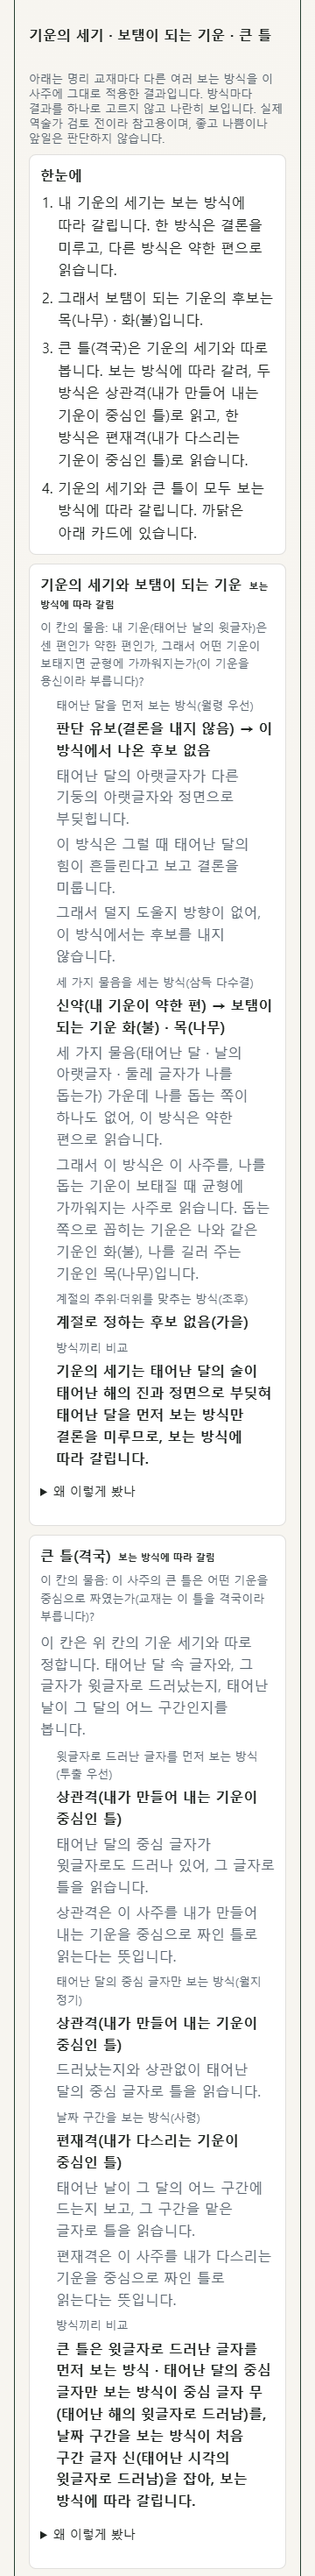
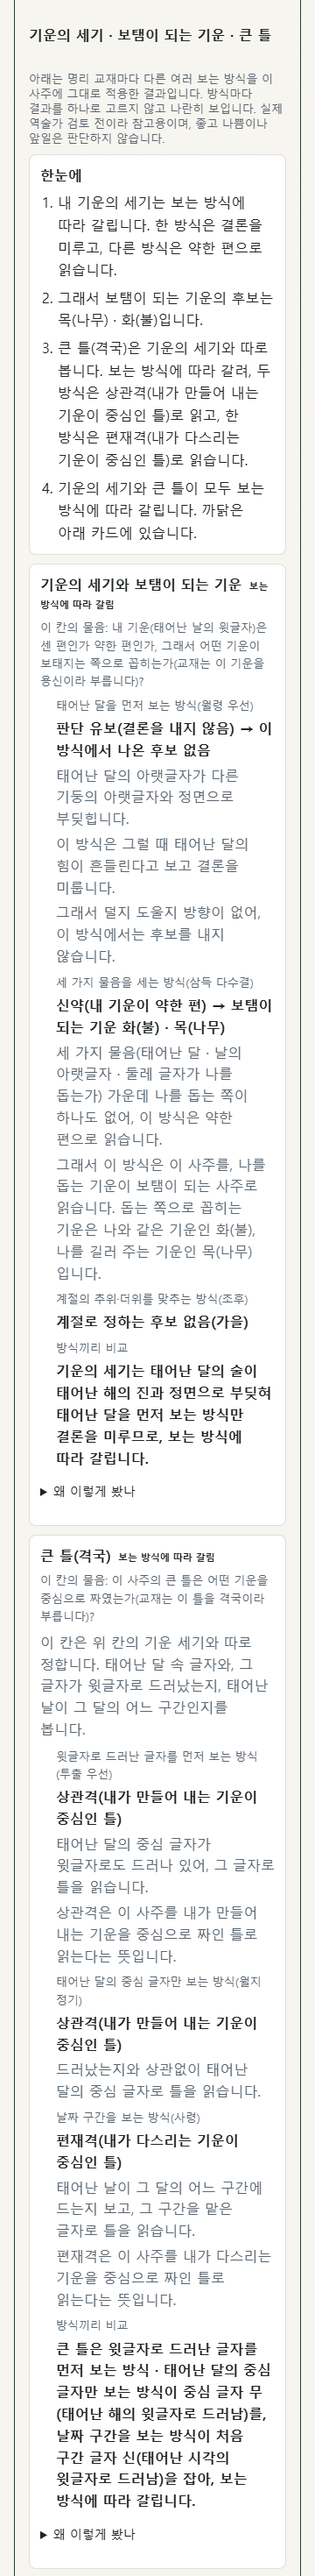
fix(paid): critic 2차 — 조사 · 월령 우선 기타 문장 · 투출 우선 비겁월 문장 · «균형» 삭제 · 득세 정의 (HO-2026-1120 plain-reading)
- josa: «병(편인)»처럼 괄호 풀이가 붙으면 괄호 앞 글자 받침으로 고름
- month-first.otherwise를 득지/득세 값으로 세 갈래, exposed-first.bigyeop-month 전용 문장
- 골든 0건 갈래를 실입력 2건으로 조건 단언, 조사 대조 테스트
- REPORT §3 보정본 문안 3사례 · 글자 수, 360px 재캡처

Changed region(s): [[0.1833, 0.4335, 0.825, 0.4954]]

diff --git a/apps/web/src/paid-reading.ts b/apps/web/src/paid-reading.ts
@@ -84,8 +84,8 @@ export const VERDICT_VALUE: Record<StrengthVerdict, string> = {
 };
 /** 값별 뜻 — 판정이 억부(세기를 맞추는 쪽) 후보로 이어지는 방향 + 그래서 이 사주를 어떻게 읽는가(LC 보정 3). */
 const VERDICT_DIRECTION: Record<StrengthVerdict, (list: string) => string> = {
-  strong: (list) => `그래서 이 방식은 이 사주를, 센 기운을 덜어 낼 때 균형에 가까워지는 사주로 읽습니다. 덜어 내는 쪽으로 꼽히는 기운은 ${list}입니다.`,
-  weak: (list) => `그래서 이 방식은 이 사주를, 나를 돕는 기운이 보태질 때 균형에 가까워지는 사주로 읽습니다. 돕는 쪽으로 꼽히는 기운은 ${list}입니다.`,
+  strong: (list) => `그래서 이 방식은 이 사주를, 센 기운을 덜어 내는 기운이 보탬이 되는 사주로 읽습니다. 덜어 내는 쪽으로 꼽히는 기운은 ${list}입니다.`,
+  weak: (list) => `그래서 이 방식은 이 사주를, 나를 돕는 기운이 보탬이 되는 사주로 읽습니다. 돕는 쪽으로 꼽히는 기운은 ${list}입니다.`,
   indeterminate: () => "그래서 덜지 도울지 방향이 없어, 이 방식에서는 후보를 내지 않습니다."
 };
 /** 한눈에 ① — 판정을 문장 꼴로(이어 쓰는 꼴 · 끝맺는 꼴). LC 보정 4. */
@@ -155,7 +155,9 @@ export const gyeokValue = (gyeok: GyeokId): string => `${GYEOK_KO[gyeok]}(${TABL
 const stemNote = (dayMaster: Stem, stem: Stem): string => `${STEM_KO[stem]}(${TEN_GOD_LABELS[tenGodOf(dayMaster, stem)].ko})`;
 /** 받침 유무로 조사를 고른다(이/가 · 은/는 · 을/를 · 과/와). */
 export function josa(word: string, pair: "이/가" | "은/는" | "을/를" | "과/와"): string {
-  const code = word.charCodeAt(word.length - 1) - 0xac00;
+  // «병(편인)»처럼 괄호 풀이가 붙으면 괄호 앞 낱말에 맞춘다(critic 중간 1: 괄호를 받침 없음으로 읽어 «병(편인)가»가 나왔다).
+  const base = word.endsWith(")") && word.includes("(") ? word.slice(0, word.lastIndexOf("(")) : word;
+  const code = base.charCodeAt(base.length - 1) - 0xac00;
   const final = code >= 0 && code <= 11171 ? code % 28 !== 0 : false;
   const [withFinal, without] = pair.split("/") as [string, string];
   return `${word}${final ? withFinal : without}`;
@@ -176,7 +178,12 @@ const STRENGTH_REASON: Record<StrengthConditionId, (inputs: StrengthReading["inp
   "month-first.month-clashed": () => ["태어난 달의 아랫글자가 다른 기둥의 아랫글자와 정면으로 부딪힙니다.", "이 방식은 그럴 때 태어난 달의 힘이 흔들린다고 보고 결론을 미룹니다."],
   "month-first.deukryeong": () => ["태어난 달의 중심 글자가 나를 돕습니다.", "이 방식은 태어난 달을 가장 무겁게 보므로 그것만으로 센 편이라고 읽습니다."],
   "month-first.ji-and-se": () => ["태어난 달은 나를 돕지 않지만, 날의 아랫글자와 나머지 글자 수가 모두 나를 돕습니다.", "이 방식은 그 둘이 함께 맞으면 센 편이라고 읽습니다."],
-  "month-first.otherwise": () => ["태어난 달의 중심 글자가 나를 돕지 않고, 날의 아랫글자와 글자 수가 함께 돕지도 않습니다."],
+  "month-first.otherwise": (inputs) => [inputs.deukji
+    ? "태어난 달의 중심 글자가 나를 돕지 않고, 날의 아랫글자는 나를 돕지만 나머지 글자 수는 돕는 쪽이 적습니다."
+    : inputs.deukse
+      ? "태어난 달의 중심 글자가 나를 돕지 않고, 나머지 글자 수는 나를 돕지만 날의 아랫글자는 돕지 않습니다."
+      : "태어난 달의 중심 글자도, 날의 아랫글자도, 나머지 글자 수도 나를 돕지 않습니다.",
+    ...(inputs.deukji || inputs.deukse ? ["이 방식은 태어난 달이 돕지 않으면 날의 아랫글자와 글자 수가 둘 다 도와야 센 편으로 읽으므로, 약한 편으로 읽습니다."] : [])],
   "triad-majority.two-or-more": (inputs) => [`${TRIAD_PLAIN} 가운데 ${inputs.triadCount}개가 나를 돕는 쪽이라, 둘 이상이면 센 편으로 읽습니다.`],
   "triad-majority.one-or-less": (inputs) => [inputs.triadCount === 0
     ? `${TRIAD_PLAIN} 가운데 나를 돕는 쪽이 하나도 없어, 이 방식은 약한 편으로 읽습니다.`
@@ -189,6 +196,8 @@ export interface FrameFacts {
   primaryExposed: boolean;
 }
 const BIGYEOP_MONTH_REASON = "태어난 달의 중심 글자가 나와 같은 기운이고, 이 방식은 그럴 때 태어난 달에서 틀을 읽지 않아 결론을 내지 않습니다.";
+/** 투출 우선은 정기가 비겁이어도 비겁 아닌 다른 달 속 글자가 드러나면 그 글자로 읽는다(GEOKGUK.md 표 4 3~5행) — 결론이 없는 건 둘 다 아닐 때뿐(critic 중간 3). */
+const EXPOSED_BIGYEOP_MONTH_REASON = "태어난 달의 중심 글자가 나와 같은 기운이고 윗글자로 드러난 다른 달 속 글자도 없어, 이 방식은 결론을 내지 않습니다.";
 /** 비겁 표 — 일간 · 월지 짝만 말한다(오행을 주장하지 않음, critic 사실 오류 1). */
 const TABLE_REASON = "나(태어난 날의 윗글자)와 태어난 달의 짝이 교재가 따로 정한 표에 있어, 그 표에 따라 이 틀로 읽습니다.";
 
@@ -202,7 +211,7 @@ const GYEOKGUK_REASON: Record<GyeokgukConditionId, (facts: FrameFacts) => string
     ? "태어난 달의 중심 글자는 나와 같은 기운이라 빼고, 윗글자로 드러난 달 속의 다른 글자 하나로 틀을 읽습니다."
     : "태어난 달의 중심 글자는 윗글자로 드러나 있지 않고, 달 속의 다른 글자 하나가 드러나 있어 그 글자로 틀을 읽습니다.",
   "exposed-first.two-others-exposed": () => "달 속의 다른 글자 둘이 모두 윗글자로 드러나 있고, 어느 쪽이 더 센지는 교재마다 기준이 달라 둘 다 후보로 둡니다.",
-  "exposed-first.bigyeop-month": () => BIGYEOP_MONTH_REASON,
+  "exposed-first.bigyeop-month": () => EXPOSED_BIGYEOP_MONTH_REASON,
   "exposed-first.otherwise": () => "나와 같은 기운이 아닌 달 속 글자 가운데 윗글자로 드러난 것이 없어, 태어난 달의 중심 글자로 틀을 읽습니다.",
   "primary-only.bigyeop-month": () => BIGYEOP_MONTH_REASON,
   "primary-only.otherwise": () => "드러났는지와 상관없이 태어난 달의 중심 글자로 틀을 읽습니다.",
@@ -269,7 +278,7 @@ export const COPY = {
   "H-4-NOT-EXPOSED": "드러나지 않음",
   // 카드 ⓐ 기운의 세기와 보탬이 되는 기운
   "C-ENERGY-TITLE": "기운의 세기와 보탬이 되는 기운",
-  "Q-ENERGY": "이 칸의 물음: 내 기운(태어난 날의 윗글자)은 센 편인가 약한 편인가, 그래서 어떤 기운이 보태지면 균형에 가까워지는가(이 기운을 용신이라 부릅니다)?",
+  "Q-ENERGY": "이 칸의 물음: 내 기운(태어난 날의 윗글자)은 센 편인가 약한 편인가, 그래서 어떤 기운이 보태지는 쪽으로 꼽히는가(교재는 이 기운을 용신이라 부릅니다)?",
   "L-CHAIN": (verdict: string, elements: string) => `${verdict} → 보탬이 되는 기운 ${elements}`,
   "L-CHAIN-NONE": (verdict: string) => `${verdict} → 이 방식에서 나온 후보 없음`,
   "L-EOKBU-ITEM": (group: Group, element: string) => `${GROUP_GLOSS[group]}인 ${element}`,
@@ -284,7 +293,7 @@ export const COPY = {
   "T-TRIAD": "삼득 다수결: 득령 · 득지 · 득세 세 물음을 같은 무게로 세어 둘 이상이면 센 편, 하나 이하면 약한 편으로 봅니다. 통용 교재에서 흔히 쓰는 관점입니다.",
   "T-DEUKRYEONG": "득령(달을 얻음): 태어난 달의 중심 글자(월지 정기)가 나를 돕는 글자인가.",
   "T-DEUKJI": "득지(자리를 얻음): 태어난 날의 아랫글자 속에 든 글자(지장간) 가운데 나를 돕는 글자가 하나라도 있는가.",
-  "T-DEUKSE": "득세(무리를 얻음): 태어난 달을 뺀 겉 글자(나를 뺀 윗글자와, 나머지 아랫글자의 중심 글자) 가운데 나를 돕는 글자가 나머지보다 적지 않은가(같은 수면 돕는 쪽으로 셉니다).",
+  "T-DEUKSE": "득세(무리를 얻음): 태어난 달의 아랫글자를 뺀 겉 글자(나를 뺀 윗글자와, 나머지 아랫글자의 중심 글자) 가운데 나를 돕는 글자가 나머지보다 적지 않은가(같은 수면 돕는 쪽으로 셉니다).",
   "T-SUPPORT": "나를 돕는 글자: 나와 같은 기운(비겁)과 나를 길러 주는 기운(인성)입니다.",
   "T-EOKBU": "억부: 내 기운이 센 편이면 덜어 내는 쪽(내가 만들어 내는 기운 · 내가 다스리는 기운 · 나를 다스리는 기운)을, 약한 편이면 돕는 쪽(나를 길러 주는 기운 · 나와 같은 기운)을 꼽습니다.",
   "T-JOHU": "조후: 겨울(해 · 자 · 축월)에 태어나면 데우는 화(불)를, 여름(사 · 오 · 미월)에 태어나면 식히는 수(물)를 꼽습니다. 봄 · 가을에는 꼽지 않습니다. 기운의 세기와 상관없이 계절만 봅니다.",
@@ -293,7 +302,7 @@ export const COPY = {
   "E-DAYMASTER": (stem: string, element: string) => `나를 나타내는 글자(일간): ${stem} — ${element}`,
   "E-RYEONG": (mark: string, branch: string, stem: string) => `득령 ${mark}: 태어난 달 ${branch}의 중심 글자 → ${stem}`,
   "E-JI": (mark: string, list: string, support: string) => `득지 ${mark}: 태어난 날 아랫글자 속 글자 ${list} → 나를 돕는 글자 ${support}`,
-  "E-SE": (mark: string, total: number, support: number, other: number) => `득세 ${mark}: 태어난 달을 뺀 겉 글자 ${total}개 가운데 나를 돕는 글자 ${support}개 · 나머지 ${other}개`,
+  "E-SE": (mark: string, total: number, support: number, other: number) => `득세 ${mark}: 태어난 달의 아랫글자를 뺀 겉 글자 ${total}개 가운데 나를 돕는 글자 ${support}개 · 나머지 ${other}개`,
   "E-CLASH": (month: string, list: string) => `월지 충 있음: 태어난 달(${month}) ↔ ${list}`,
   "E-NO-CLASH": "월지 충 없음: 태어난 달과 정면으로 부딪히는 아랫글자가 없습니다.",
   "E-NO-TIME": "(시주를 빼고 셈)",

diff --git a/docs/handoffs/HO-2026-1120-saju-paid-3blocks-plain-reading-REPORT.md b/docs/handoffs/HO-2026-1120-saju-paid-3blocks-plain-reading-REPORT.md
@@ -121,7 +121,7 @@
 - [x] 7ⓐⓑ 골든 50 빈칸 0 · 코어 값 일치 / 7ⓒ 360px 넘침 — 아래 캡처 표(scrollWidth 수치)
 - [x] LC 보강 1 — 조각이 말하는 조건을 코어 값으로 단언(골든 50 전부) · 계산 못 하는 조각 목록(아래)
 - [x] LC 보강 2 — 사례 3건 완성 문안(§3)
-- [ ] 8 critic PASS → LC 게이트 → 머지 → 프로덕션 SHA = main · 200 → 볼 곳 3줄
+- [ ] 8 critic 2차 FAIL(조건부) → 고침 → verify EXIT 0(149+1074+89 · audit 0) · 360px 재캡처(scrollWidth 360) → critic 3차 → LC 게이트 → LC 게이트 → 머지 → 프로덕션 SHA = main · 200 → 볼 곳 3줄
 - [ ] 9 AGENT_STATUS · WORKLOG · 컨텍스트 값
 
 ### 바뀐 것 (코드 = `apps/web/src/paid-reading.ts` · 테스트 · 출처 표만. 코어 · 구조 · 조립 불변)
@@ -168,11 +168,32 @@
 2. 오행 자훈(나무 · 불 · 흙 · 쇠 · 물)의 외부 출처 이름.
 3. 360px 화면 수 목표 2.5 — 펼친 글자 최대 1,857(어림 583자/화면 → 약 3.2). 강약 · 격국 둘 다 갈리는 4건이 최대 쪽이다.
 
-## 3. 완성 문안 3사례 (보정본 · LC 직독용)
+### critic 2차(c5699ac) = FAIL(조건부, 8.0/10) → 고침
 
-코드에서 그대로 뽑았다(`paidReadingOfReport`). 줄마다 `conclusion`(펼침) · `meaning`(펼침) · `basis`(화면은 «왜 이렇게 봤나»로 접힘, HTML 저장본은 펼침). 배지가 «같음»인 카드의 «방식끼리 비교» 줄은 화면에 찍지 않아(quiet) 빠져 있다.
+| critic | 처리 |
+| --- | --- |
+| 중간 1 조사 «병(편인)가» | `josa()`가 괄호 풀이가 붙은 낱말은 괄호 앞 글자로 고른다 → «병(편인)이». 테스트: 모든 «글자(풀이)+조사»를 골든 50 + 2건에서 받침과 대조. |
+| 중간 2 «함께 돕지도 않습니다» 오독 | `month-first.otherwise`를 득지 · 득세 값으로 세 갈래: 득지만(9) · 득세만(1) · 둘 다 없음(2). 앞 두 갈래에는 «태어난 달이 돕지 않으면 둘 다 도와야 센 편» 1문장. 갈래마다 `[득령, 득지, 득세]` 정확 단언. |
+| 중간 3 투출 우선 «그럴 때 결론 없음» 과장 | `exposed-first.bigyeop-month` 전용 문장 «…나와 같은 기운이고 윗글자로 드러난 다른 달 속 글자도 없어, 이 방식은 결론을 내지 않습니다.» 월지 정기 방식은 그대로. |
+| 낮음 4 골든 0건 갈래 | 실제 입력 2건을 조건 단언 루프에 더했다: 1961-07-24 13:00(정기 비겁 투출 + 다른 글자 하나) · 1960-04-10 07:00(exposed-first.bigyeop-month). 그 갈래를 정말 타는지 단언. |
+| 낮음 5 «균형» 출처 없음 | 지웠다. 물음 «어떤 기운이 보태지는 쪽으로 꼽히는가(교재는 이 기운을 용신이라 부릅니다)» · 뜻 «이 사주를, 나를 돕는 기운이 보탬이 되는 사주로 읽습니다»(센 편은 «센 기운을 덜어 내는 기운이»). 출처 `YONGSIN-CANDIDATES.md:5-7,21-26,43`. |
+| 낮음 6 득세 «태어난 달을 뺀» | «태어난 달의 아랫글자를 뺀 겉 글자»(월간은 센다, `strength-factors.ts:196`). |
+| 낮음 7 i18n · 입춘 · HTML 전문 이름 | 손대지 않음. i18n은 앞 `paid-blocks.ts`와 같은 방식(회귀 아님). HTML 저장본의 접힌 근거(«월령 우선: …» 정의 줄)는 낱말 풀이 목록이라 전문 이름이 머리말로 나온다 — LC 판단에 맡긴다. |
+| 경미 · `zz-len.test.ts` | 내가 글자 수를 재려고 잠깐 만든 임시 파일이다. 지웠고 커밋에 없다(`git status` 깨끗). |
+| LC 남은 것 2 | 오행 자훈 출처 = 표준국어대사전 표제어 «나무 · 불 · 흙 · 쇠 · 물» — **워커 가정**(이름 · 표제어만, 본문 전재 0). |
 
-### 1988-10-09 02:30
+### 멈춘 곳 (2026-11-20 14:2x)
+
+- critic 2차 지적 고친 작업 트리(미커밋): `paid-reading.ts` · `paid-reading.test.ts` · `PAID-3BLOCKS-READING.md`. 이 파일만 돌린 vitest는 22/22 통과(조건 단언 실패 0, 조사 대조 통과). tsc는 오류 0.
+- 다시 돌린 `npm run verify`와 dev 서버(캡처용)는 **시스템 메모리 부족으로 Claude Code가 멈췄다**. 실패가 아니다. 사용자 지시 없이 다시 띄우지 않는다.
+- 남은 순서: verify(EXIT 0) → 커밋 · push → §3 문안 다시 뽑기 · 360px 캡처 다시 → critic 3차 → 게이트 요청.
+- 글자 수(보정 뒤 작업 트리): ⓐ 접힌 기본 화면 1988 = 1,656 · 1933 시각 미상 = 1,666 · g-1971 = 1,519 / ⓑ 펼친 전체 4,028 · 4,029 · 3,788 / ⓒ 최대 ⓐ 1,850 = g-1986-07-08-1900(1986-07-08 19:00 · 남). c5699ac 기준은 1,663 · 1,596 · 1,526 / 최대 1,857.
+
+## 3. 완성 문안 3사례 (critic 2차 보정본 · 작업 트리 기준 · LC 직독용)
+
+코드에서 그대로 뽑았다(`paidReadingOfReport`). 줄마다 `conclusion`(펼침) · `meaning`(펼침) · `basis`(화면은 «왜 이렇게 봤나»로 접힘, HTML 저장본은 펼침). 배지가 «같음»인 카드의 «방식끼리 비교» 줄은 화면에 찍지 않아(quiet) 빠져 있다. 글자 수: ⓐ 접힌 기본 화면 = 펼친 문장 합 · ⓑ 펼친 전체 = ⓐ + 접힌 basis. ⓒ 골든 최대 ⓐ 1,850자 = g-1986-07-08-1900(1986-07-08 19:00 · 남 · Asia/Seoul) · 최소 1,222자 = g-2005-04-22-0130.
+
+### 1988-10-09 02:30 — 접힌 기본 화면 1656자 · 펼친 전체 4028자
 - 안내: 아래는 명리 교재마다 다른 여러 보는 방식을 이 사주에 그대로 적용한 결과입니다. 방식마다 결과를 하나로 고르지 않고 나란히 보입니다. 실제 역술가 검토 전이라 참고용이며, 좋고 나쁨이나 앞일은 판단하지 않습니다.
 #### 한눈에
 1. 내 기운의 세기는 보는 방식에 따라 갈립니다. 한 방식은 결론을 미루고, 다른 방식은 약한 편으로 읽습니다.
@@ -180,7 +201,7 @@
 3. 큰 틀(격국)은 기운의 세기와 따로 봅니다. 보는 방식에 따라 갈려, 두 방식은 상관격(내가 만들어 내는 기운이 중심인 틀)로 읽고, 한 방식은 편재격(내가 다스리는 기운이 중심인 틀)로 읽습니다.
 4. 기운의 세기와 큰 틀이 모두 보는 방식에 따라 갈립니다. 까닭은 아래 카드에 있습니다.
 #### 기운의 세기와 보탬이 되는 기운 — 배지 «보는 방식에 따라 갈림»
-- 물음: 이 칸의 물음: 내 기운(태어난 날의 윗글자)은 센 편인가 약한 편인가, 그래서 어떤 기운이 보태지면 균형에 가까워지는가(이 기운을 용신이라 부릅니다)?
+- 물음: 이 칸의 물음: 내 기운(태어난 날의 윗글자)은 센 편인가 약한 편인가, 그래서 어떤 기운이 보태지는 쪽으로 꼽히는가(교재는 이 기운을 용신이라 부릅니다)?
 - **태어난 달을 먼저 보는 방식(월령 우선)**
   - conclusion: 판단 유보(결론을 내지 않음) → 이 방식에서 나온 후보 없음
   - meaning: 태어난 달의 아랫글자가 다른 기둥의 아랫글자와 정면으로 부딪힙니다.
@@ -190,15 +211,15 @@
   - basis: 월지 충 있음: 태어난 달(술) ↔ 태어난 해(진)
   - basis: 득령 해당 없음: 태어난 달 술의 중심 글자 → 무(상관)
   - basis: 득지 해당 없음: 태어난 날 아랫글자 속 글자 경(정재) · 신(편재) → 나를 돕는 글자 없음
-  - basis: 득세 해당 없음: 태어난 달을 뺀 겉 글자 6개 가운데 나를 돕는 글자 0개 · 나머지 6개
+  - basis: 득세 해당 없음: 태어난 달의 아랫글자를 뺀 겉 글자 6개 가운데 나를 돕는 글자 0개 · 나머지 6개
 - **세 가지 물음을 세는 방식(삼득 다수결)**
   - conclusion: 신약(내 기운이 약한 편) → 보탬이 되는 기운 화(불) · 목(나무)
   - meaning: 세 가지 물음(태어난 달 · 날의 아랫글자 · 둘레 글자가 나를 돕는가) 가운데 나를 돕는 쪽이 하나도 없어, 이 방식은 약한 편으로 읽습니다.
-  - meaning: 그래서 이 방식은 이 사주를, 나를 돕는 기운이 보태질 때 균형에 가까워지는 사주로 읽습니다. 돕는 쪽으로 꼽히는 기운은 나와 같은 기운인 화(불), 나를 길러 주는 기운인 목(나무)입니다.
+  - meaning: 그래서 이 방식은 이 사주를, 나를 돕는 기운이 보탬이 되는 사주로 읽습니다. 돕는 쪽으로 꼽히는 기운은 나와 같은 기운인 화(불), 나를 길러 주는 기운인 목(나무)입니다.
   - basis: 삼득 다수결: 득령 · 득지 · 득세 세 물음을 같은 무게로 세어 둘 이상이면 센 편, 하나 이하면 약한 편으로 봅니다. 통용 교재에서 흔히 쓰는 관점입니다.
   - basis: 득령 해당 없음: 태어난 달 술의 중심 글자 → 무(상관)
   - basis: 득지 해당 없음: 태어난 날 아랫글자 속 글자 경(정재) · 신(편재) → 나를 돕는 글자 없음
-  - basis: 득세 해당 없음: 태어난 달을 뺀 겉 글자 6개 가운데 나를 돕는 글자 0개 · 나머지 6개
+  - basis: 득세 해당 없음: 태어난 달의 아랫글자를 뺀 겉 글자 6개 가운데 나를 돕는 글자 0개 · 나머지 6개
   - basis: 비겁 화(불) ← 삼득 다수결 신약
   - basis: 인성 목(나무) ← 삼득 다수결 신약
 - **계절의 추위·더위를 맞추는 방식(조후)**
@@ -212,7 +233,7 @@
 - basis(카드 공통): 나를 나타내는 글자(일간): 정 — 화(불)
 - basis(카드 공통): 득령(달을 얻음): 태어난 달의 중심 글자(월지 정기)가 나를 돕는 글자인가.
 - basis(카드 공통): 득지(자리를 얻음): 태어난 날의 아랫글자 속에 든 글자(지장간) 가운데 나를 돕는 글자가 하나라도 있는가.
-- basis(카드 공통): 득세(무리를 얻음): 태어난 달을 뺀 겉 글자(나를 뺀 윗글자와, 나머지 아랫글자의 중심 글자) 가운데 나를 돕는 글자가 나머지보다 적지 않은가(같은 수면 돕는 쪽으로 셉니다).
+- basis(카드 공통): 득세(무리를 얻음): 태어난 달의 아랫글자를 뺀 겉 글자(나를 뺀 윗글자와, 나머지 아랫글자의 중심 글자) 가운데 나를 돕는 글자가 나머지보다 적지 않은가(같은 수면 돕는 쪽으로 셉니다).
 - basis(카드 공통): 나를 돕는 글자: 나와 같은 기운(비겁)과 나를 길러 주는 기운(인성)입니다.
 - basis(카드 공통): 억부: 내 기운이 센 편이면 덜어 내는 쪽(내가 만들어 내는 기운 · 내가 다스리는 기운 · 나를 다스리는 기운)을, 약한 편이면 돕는 쪽(나를 길러 주는 기운 · 나와 같은 기운)을 꼽습니다.
 - basis(카드 공통): 다섯 갈래는 나(태어난 날의 윗글자)를 기준으로 나눕니다: 비겁 = 나와 같은 기운 · 식상 = 내가 만들어 내는 기운 · 재성 = 내가 다스리는 기운 · 관성 = 나를 다스리는 기운 · 인성 = 나를 길러 주는 기운.
@@ -248,7 +269,7 @@
 - basis(카드 공통): 달 속 글자: 아랫글자(지지) 하나에는 윗글자(천간) 둘이나 셋이 들어 있다고 보고, 처음 구간(여기) · 가운데 구간(중기) · 중심(정기)으로 나눕니다.
 - basis(카드 공통): 같은 갈래 안에서 이름이 둘로 나뉩니다. 나와 음양이 같으면 편재 · 편관 · 편인 · 식신, 다르면 정재 · 정관 · 정인 · 상관입니다. 건록격 · 양인격 · 월겁격은 나와 태어난 달의 짝이 교재가 따로 정한 표에 있을 때 붙이는 이름입니다.
 
-### 1933-11-17 시각 미상 (g-1933-11-17-xxxx)
+### 1933-11-17 시각 미상 (g-1933-11-17-xxxx) — 접힌 기본 화면 1666자 · 펼친 전체 4029자
 - 안내: 아래는 명리 교재마다 다른 여러 보는 방식을 이 사주에 그대로 적용한 결과입니다. 방식마다 결과를 하나로 고르지 않고 나란히 보입니다. 실제 역술가 검토 전이라 참고용이며, 좋고 나쁨이나 앞일은 판단하지 않습니다. 출생 시간이 없어 태어난 시각의 기둥(시주)은 빼고 셌습니다.
 #### 한눈에
 1. 어느 방식으로 봐도 내 기운은 약한 편으로 읽힙니다.
@@ -256,16 +277,17 @@
 3. 큰 틀(격국)은 기운의 세기와 따로 봅니다. 보는 방식에 따라 갈려, 두 방식은 정관격(나를 다스리는 기운이 중심인 틀)로 읽고, 한 방식은 정인격(나를 길러 주는 기운이 중심인 틀)로 읽습니다.
 4. 큰 틀이 보는 방식에 따라 갈립니다. 까닭은 아래 카드에 있습니다.
 #### 기운의 세기와 보탬이 되는 기운 — 배지 «어느 방식으로 봐도 같음»
-- 물음: 이 칸의 물음: 내 기운(태어난 날의 윗글자)은 센 편인가 약한 편인가, 그래서 어떤 기운이 보태지면 균형에 가까워지는가(이 기운을 용신이라 부릅니다)?
+- 물음: 이 칸의 물음: 내 기운(태어난 날의 윗글자)은 센 편인가 약한 편인가, 그래서 어떤 기운이 보태지는 쪽으로 꼽히는가(교재는 이 기운을 용신이라 부릅니다)?
 - **태어난 달을 먼저 보는 방식(월령 우선)**
   - conclusion: 신약(내 기운이 약한 편) → 보탬이 되는 기운 화(불) · 목(나무)
-  - meaning: 태어난 달의 중심 글자가 나를 돕지 않고, 날의 아랫글자와 글자 수가 함께 돕지도 않습니다.
-  - meaning: 그래서 이 방식은 이 사주를, 나를 돕는 기운이 보태질 때 균형에 가까워지는 사주로 읽습니다. 돕는 쪽으로 꼽히는 기운은 나와 같은 기운인 화(불), 나를 길러 주는 기운인 목(나무)입니다.
+  - meaning: 태어난 달의 중심 글자가 나를 돕지 않고, 날의 아랫글자는 나를 돕지만 나머지 글자 수는 돕는 쪽이 적습니다.
+  - meaning: 이 방식은 태어난 달이 돕지 않으면 날의 아랫글자와 글자 수가 둘 다 도와야 센 편으로 읽으므로, 약한 편으로 읽습니다.
+  - meaning: 그래서 이 방식은 이 사주를, 나를 돕는 기운이 보탬이 되는 사주로 읽습니다. 돕는 쪽으로 꼽히는 기운은 나와 같은 기운인 화(불), 나를 길러 주는 기운인 목(나무)입니다.
   - basis: 월령 우선: 월령(태어난 달)을 먼저 봅니다. 태어난 달이 다른 글자와 부딪히면(월지 충) 결론을 미루고, 태어난 달의 중심 글자가 나를 도우면 센 편, 아니면 득지와 득세가 둘 다 맞을 때만 센 편으로 봅니다. 자평 계열 교재의 관점입니다.
   - basis: 월지 충 없음: 태어난 달과 정면으로 부딪히는 아랫글자가 없습니다.
   - basis: 득령 해당 없음: 태어난 달 해의 중심 글자 → 임(정관)
   - basis: 득지 해당: 태어난 날 아랫글자 속 글자 무(상관) · 갑(정인) · 임(정관) → 나를 돕는 글자 갑(정인)
-  - basis: 득세 해당 없음: 태어난 달을 뺀 겉 글자 4개 가운데 나를 돕는 글자 0개 · 나머지 4개 (시주를 빼고 셈)
+  - basis: 득세 해당 없음: 태어난 달의 아랫글자를 뺀 겉 글자 4개 가운데 나를 돕는 글자 0개 · 나머지 4개 (시주를 빼고 셈)
   - basis: 비겁 화(불) ← 월령 우선 신약
   - basis: 인성 목(나무) ← 월령 우선 신약
 - **세 가지 물음을 세는 방식(삼득 다수결)**
@@ -274,7 +296,7 @@
   - basis: 삼득 다수결: 득령 · 득지 · 득세 세 물음을 같은 무게로 세어 둘 이상이면 센 편, 하나 이하면 약한 편으로 봅니다. 통용 교재에서 흔히 쓰는 관점입니다.
   - basis: 득령 해당 없음: 태어난 달 해의 중심 글자 → 임(정관)
   - basis: 득지 해당: 태어난 날 아랫글자 속 글자 무(상관) · 갑(정인) · 임(정관) → 나를 돕는 글자 갑(정인)
-  - basis: 득세 해당 없음: 태어난 달을 뺀 겉 글자 4개 가운데 나를 돕는 글자 0개 · 나머지 4개 (시주를 빼고 셈)
+  - basis: 득세 해당 없음: 태어난 달의 아랫글자를 뺀 겉 글자 4개 가운데 나를 돕는 글자 0개 · 나머지 4개 (시주를 빼고 셈)
   - basis: 비겁 화(불) ← 삼득 다수결 신약
   - basis: 인성 목(나무) ← 삼득 다수결 신약
 - **계절의 추위·더위를 맞추는 방식(조후)**
@@ -287,7 +309,7 @@
 - basis(카드 공통): 나를 나타내는 글자(일간): 정 — 화(불)
 - basis(카드 공통): 득령(달을 얻음): 태어난 달의 중심 글자(월지 정기)가 나를 돕는 글자인가.
 - basis(카드 공통): 득지(자리를 얻음): 태어난 날의 아랫글자 속에 든 글자(지장간) 가운데 나를 돕는 글자가 하나라도 있는가.
-- basis(카드 공통): 득세(무리를 얻음): 태어난 달을 뺀 겉 글자(나를 뺀 윗글자와, 나머지 아랫글자의 중심 글자) 가운데 나를 돕는 글자가 나머지보다 적지 않은가(같은 수면 돕는 쪽으로 셉니다).
+- basis(카드 공통): 득세(무리를 얻음): 태어난 달의 아랫글자를 뺀 겉 글자(나를 뺀 윗글자와, 나머지 아랫글자의 중심 글자) 가운데 나를 돕는 글자가 나머지보다 적지 않은가(같은 수면 돕는 쪽으로 셉니다).
 - basis(카드 공통): 나를 돕는 글자: 나와 같은 기운(비겁)과 나를 길러 주는 기운(인성)입니다.
 - basis(카드 공통): 억부: 내 기운이 센 편이면 덜어 내는 쪽(내가 만들어 내는 기운 · 내가 다스리는 기운 · 나를 다스리는 기운)을, 약한 편이면 돕는 쪽(나를 길러 주는 기운 · 나와 같은 기운)을 꼽습니다.
 - basis(카드 공통): 다섯 갈래는 나(태어난 날의 윗글자)를 기준으로 나눕니다: 비겁 = 나와 같은 기운 · 식상 = 내가 만들어 내는 기운 · 재성 = 내가 다스리는 기운 · 관성 = 나를 다스리는 기운 · 인성 = 나를 길러 주는 기운.
@@ -324,7 +346,7 @@
 - basis(카드 공통): 달 속 글자: 아랫글자(지지) 하나에는 윗글자(천간) 둘이나 셋이 들어 있다고 보고, 처음 구간(여기) · 가운데 구간(중기) · 중심(정기)으로 나눕니다.
 - basis(카드 공통): 같은 갈래 안에서 이름이 둘로 나뉩니다. 나와 음양이 같으면 편재 · 편관 · 편인 · 식신, 다르면 정재 · 정관 · 정인 · 상관입니다. 건록격 · 양인격 · 월겁격은 나와 태어난 달의 짝이 교재가 따로 정한 표에 있을 때 붙이는 이름입니다.
 
-### g-1971-07-02-1400 (비겁 계열 · 토 일간)
+### g-1971-07-02-1400 (비겁 계열 · 토 일간) — 접힌 기본 화면 1519자 · 펼친 전체 3788자
 - 안내: 아래는 명리 교재마다 다른 여러 보는 방식을 이 사주에 그대로 적용한 결과입니다. 방식마다 결과를 하나로 고르지 않고 나란히 보입니다. 실제 역술가 검토 전이라 참고용이며, 좋고 나쁨이나 앞일은 판단하지 않습니다.
 #### 한눈에
 1. 내 기운의 세기는 보는 방식에 따라 갈립니다. 한 방식은 결론을 미루고, 다른 방식은 약한 편으로 읽습니다.
@@ -332,7 +354,7 @@
 3. 큰 틀(격국)은 기운의 세기와 따로 봅니다. 어느 방식으로 봐도 양인격(나와 태어난 달의 짝으로 교재 표가 정한 틀)로 읽습니다.
 4. 기운의 세기가 보는 방식에 따라 갈립니다. 까닭은 아래 카드에 있습니다.
 #### 기운의 세기와 보탬이 되는 기운 — 배지 «보는 방식에 따라 갈림»
-- 물음: 이 칸의 물음: 내 기운(태어난 날의 윗글자)은 센 편인가 약한 편인가, 그래서 어떤 기운이 보태지면 균형에 가까워지는가(이 기운을 용신이라 부릅니다)?
+- 물음: 이 칸의 물음: 내 기운(태어난 날의 윗글자)은 센 편인가 약한 편인가, 그래서 어떤 기운이 보태지는 쪽으로 꼽히는가(교재는 이 기운을 용신이라 부릅니다)?
 - **태어난 달을 먼저 보는 방식(월령 우선)**
   - conclusion: 판단 유보(결론을 내지 않음) → 이 방식에서 나온 후보 없음
   - meaning: 태어난 달의 아랫글자가 다른 기둥의 아랫글자와 정면으로 부딪힙니다.
@@ -342,15 +364,15 @@
   - basis: 월지 충 있음: 태어난 달(오) ↔ 태어난 날(자)
   - basis: 득령 해당: 태어난 달 오의 중심 글자 → 정(정인)
   - basis: 득지 해당 없음: 태어난 날 아랫글자 속 글자 임(편재) · 계(정재) → 나를 돕는 글자 없음
-  - basis: 득세 해당 없음: 태어난 달을 뺀 겉 글자 6개 가운데 나를 돕는 글자 2개 · 나머지 4개
+  - basis: 득세 해당 없음: 태어난 달의 아랫글자를 뺀 겉 글자 6개 가운데 나를 돕는 글자 2개 · 나머지 4개
 - **세 가지 물음을 세는 방식(삼득 다수결)**
   - conclusion: 신약(내 기운이 약한 편) → 보탬이 되는 기운 토(흙) · 화(불)
   - meaning: 세 가지 물음(태어난 달 · 날의 아랫글자 · 둘레 글자가 나를 돕는가) 가운데 1개만 나를 돕는 쪽이라, 하나 이하면 약한 편으로 읽습니다.
-  - meaning: 그래서 이 방식은 이 사주를, 나를 돕는 기운이 보태질 때 균형에 가까워지는 사주로 읽습니다. 돕는 쪽으로 꼽히는 기운은 나와 같은 기운인 토(흙), 나를 길러 주는 기운인 화(불)입니다.
+  - meaning: 그래서 이 방식은 이 사주를, 나를 돕는 기운이 보탬이 되는 사주로 읽습니다. 돕는 쪽으로 꼽히는 기운은 나와 같은 기운인 토(흙), 나를 길러 주는 기운인 화(불)입니다.
   - basis: 삼득 다수결: 득령 · 득지 · 득세 세 물음을 같은 무게로 세어 둘 이상이면 센 편, 하나 이하면 약한 편으로 봅니다. 통용 교재에서 흔히 쓰는 관점입니다.
   - basis: 득령 해당: 태어난 달 오의 중심 글자 → 정(정인)
   - basis: 득지 해당 없음: 태어난 날 아랫글자 속 글자 임(편재) · 계(정재) → 나를 돕는 글자 없음
-  - basis: 득세 해당 없음: 태어난 달을 뺀 겉 글자 6개 가운데 나를 돕는 글자 2개 · 나머지 4개
+  - basis: 득세 해당 없음: 태어난 달의 아랫글자를 뺀 겉 글자 6개 가운데 나를 돕는 글자 2개 · 나머지 4개
   - basis: 비겁 토(흙) ← 삼득 다수결 신약
   - basis: 인성 화(불) ← 삼득 다수결 신약
 - **계절의 추위·더위를 맞추는 방식(조후)**
@@ -366,7 +388,7 @@
 - basis(카드 공통): 나를 나타내는 글자(일간): 무 — 토(흙)
 - basis(카드 공통): 득령(달을 얻음): 태어난 달의 중심 글자(월지 정기)가 나를 돕는 글자인가.
 - basis(카드 공통): 득지(자리를 얻음): 태어난 날의 아랫글자 속에 든 글자(지장간) 가운데 나를 돕는 글자가 하나라도 있는가.
-- basis(카드 공통): 득세(무리를 얻음): 태어난 달을 뺀 겉 글자(나를 뺀 윗글자와, 나머지 아랫글자의 중심 글자) 가운데 나를 돕는 글자가 나머지보다 적지 않은가(같은 수면 돕는 쪽으로 셉니다).
+- basis(카드 공통): 득세(무리를 얻음): 태어난 달의 아랫글자를 뺀 겉 글자(나를 뺀 윗글자와, 나머지 아랫글자의 중심 글자) 가운데 나를 돕는 글자가 나머지보다 적지 않은가(같은 수면 돕는 쪽으로 셉니다).
 - basis(카드 공통): 나를 돕는 글자: 나와 같은 기운(비겁)과 나를 길러 주는 기운(인성)입니다.
 - basis(카드 공통): 억부: 내 기운이 센 편이면 덜어 내는 쪽(내가 만들어 내는 기운 · 내가 다스리는 기운 · 나를 다스리는 기운)을, 약한 편이면 돕는 쪽(나를 길러 주는 기운 · 나와 같은 기운)을 꼽습니다.
 - basis(카드 공통): 다섯 갈래는 나(태어난 날의 윗글자)를 기준으로 나눕니다: 비겁 = 나와 같은 기운 · 식상 = 내가 만들어 내는 기운 · 재성 = 내가 다스리는 기운 · 관성 = 나를 다스리는 기운 · 인성 = 나를 길러 주는 기운.

diff --git a/docs/rules/PAID-3BLOCKS-READING.md b/docs/rules/PAID-3BLOCKS-READING.md
@@ -114,11 +114,11 @@
 | B-JUDGED-ONE | 격국 배지 | 결론 낸 세트 1 | `GEOKGUK.md:14` |
 | B-JUDGED-SAME | 격국 배지 | 결론 낸 세트끼리 일치 | `GEOKGUK.md:14` |
 | W-SUMMARY | 접기 제목 | LC 합의(접힘 = basis) | REPORT §0 F |
-| ELEMENT_PLAIN | 값별 뜻 `Record<FiveElement>` | 오행 이름 + 한자 자훈(木 나무 · 火 불 · 土 흙 · 金 쇠 · 水 물) | `five-elements.ts:10` · 같은 줄의 한자(木 · 火 · 土 · 金 · 水) 글자 뜻 — 외부 사전 이름은 대지 않음(REPORT 남은 것) |
+| ELEMENT_PLAIN | 값별 뜻 `Record<FiveElement>` | 오행 이름 + 한자 자훈(木 나무 · 火 불 · 土 흙 · 金 쇠 · 水 물) | `five-elements.ts:10` · 표준국어대사전 표제어 «나무» · «불» · «흙» · «쇠» · «물»(워커 가정 — 한자 훈과 같은 낱말, 본문 전재 없음) |
 | GROUP_GLOSS | 값별 뜻 | 십신 묶음 = 일간 기준 생극 | `GOLDEN-TENGODS.md:9` · `YONGSIN-CANDIDATES.md:21-25` |
 | EOKBU_GROUP | 값별 뜻 `Record<억부 ruleId>` | 억부 규칙 → 묶음 | `YONGSIN-CANDIDATES.md:21-25` |
 | VERDICT_VALUE | 값별 뜻 `Record<StrengthVerdict>` | strong · weak · indeterminate | `STRENGTH-READINGS.md:7,25-32` |
-| VERDICT_DIRECTION | 값별 뜻 `Record<StrengthVerdict>` | 판독 → 억부 방향 · 그래서 이 사주를 어떻게 읽는가 | `YONGSIN-CANDIDATES.md:21-26,43` |
+| VERDICT_DIRECTION | 값별 뜻 `Record<StrengthVerdict>` | 판독 → 억부 방향(«덜어 내는 쪽 / 돕는 쪽») · 그 기운이 보탬(용신 후보)이 되는 사주로 읽음 | `YONGSIN-CANDIDATES.md:5-7,21-26,43` |
 | VERDICT_CLAUSE | 값별 뜻 `Record<StrengthVerdict>`(한눈에 ① 문장 꼴) | strong · weak · indeterminate | `STRENGTH-READINGS.md:7,25-32` |
 | VERDICT_PLAIN | 값별 뜻(한눈에 ① 같음) | strong · weak | `STRENGTH-READINGS.md:7` |
 | TRIAD_PLAIN | 삼득 세 물음 풀이 구 | 득령 · 득지 · 득세 | `STRENGTH.md:16,19,22` |
@@ -129,7 +129,7 @@
 | GYEOKGUK_SET_PLAIN | 방식 쉬운 이름 | 세트 관점 | `GEOKGUK.md:94-96` |
 | GYEOK_KO | 값별 뜻 `Record<GyeokId>` | 격 이름 | `GEOKGUK.md:20-38,87` |
 | GYEOK_GROUP | 값별 뜻 `Record<GyeokId>` | 격 → 십신 묶음(건록 · 양인 · 월겁 = 비겁) | `GEOKGUK.md:18-40,87` |
-| STRENGTH_REASON | 근거 조각 `Record<강약 conditionId>` | 표 2 발화 조건 | `STRENGTH-READINGS.md:27-32` |
+| STRENGTH_REASON | 근거 조각 `Record<강약 conditionId>`(month-first.otherwise는 득지 · 득세 값으로 세 갈래) | 표 2 발화 조건 | `STRENGTH-READINGS.md:27-32` |
 | GYEOKGUK_REASON | 근거 조각 `Record<격국 conditionId>`(투출 갈래는 `frameFactsOf` 정기 투출 여부로 고름) | 표 4 발화 조건 · 표 2 토큰(비겁 장간 제외) | `GEOKGUK.md:9-10,45-54,72-84` |
 | UNAVAILABLE_REASON | 근거 조각 `Record<unavailable>` | 결론 없는 까닭 | `GEOKGUK.md:52,65-66,88` |
 | UNAVAILABLE_VALUE | 값별 뜻 `Record<unavailable>` | 해당 격 없음 · 판정 불가 | `GEOKGUK.md:65-66` |
